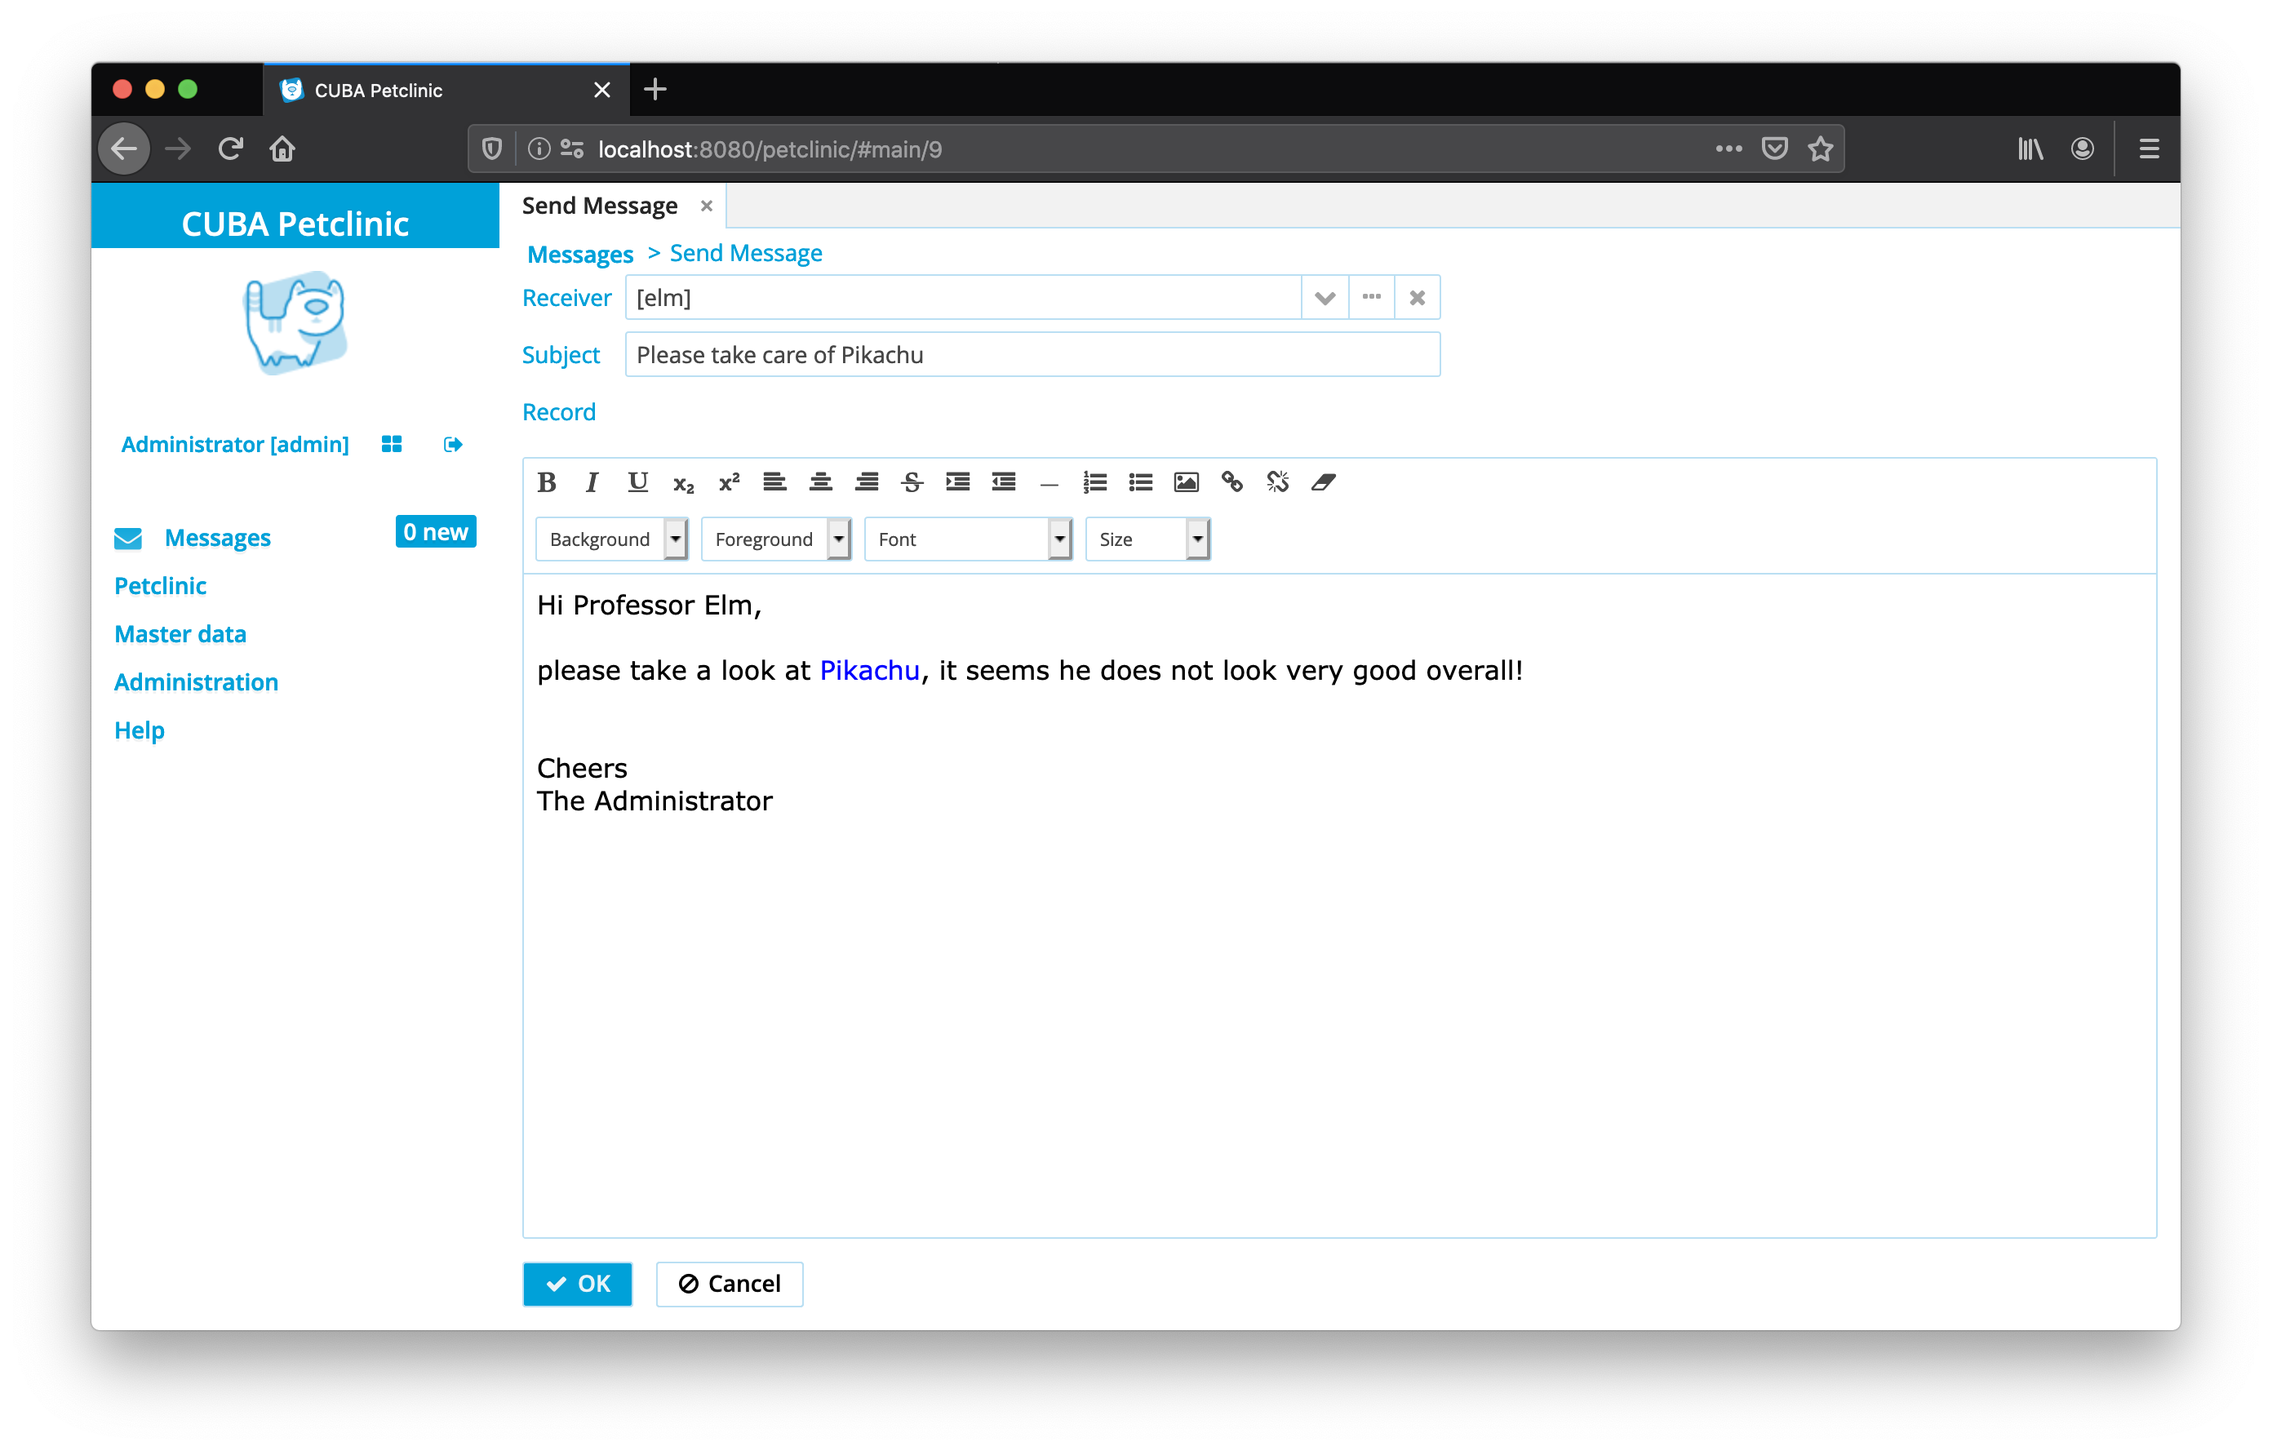
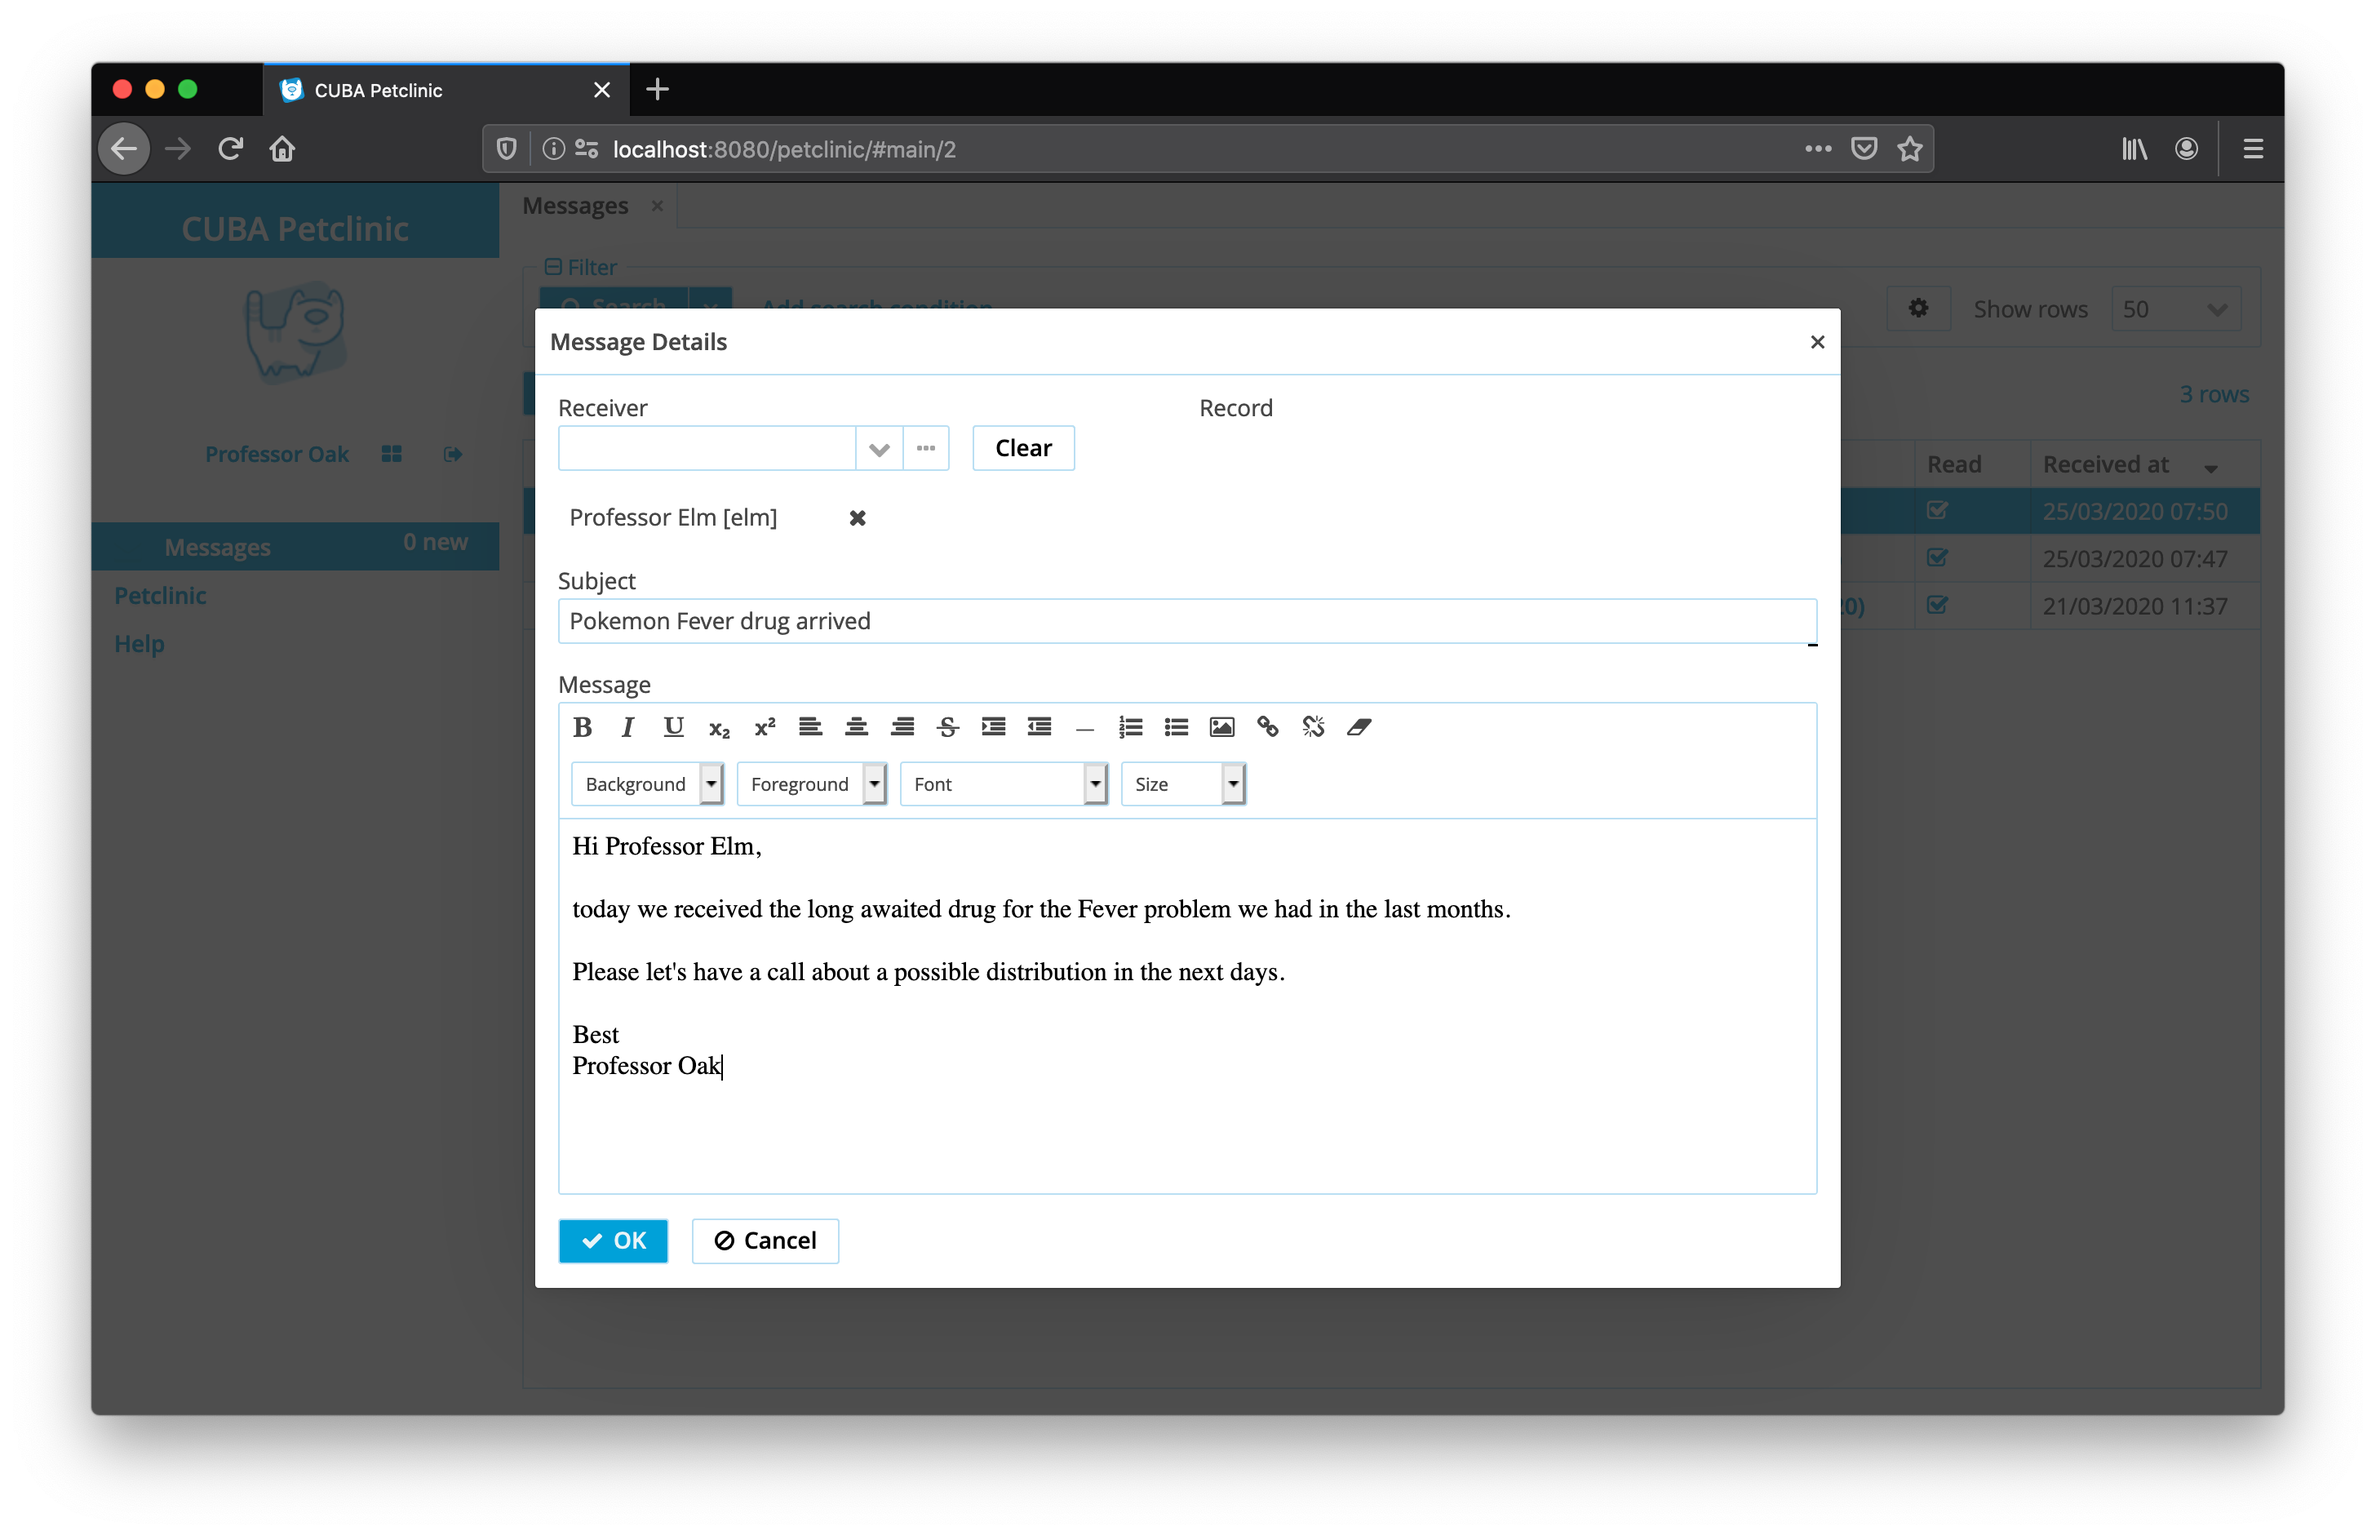
fix shareable support; updated screenshots

diff --git a/modules/web/src/de/diedavids/cuba/userinbox/web/WithEntitySharingSupport.java b/modules/web/src/de/diedavids/cuba/userinbox/web/WithEntitySharingSupport.java
@@ -11,6 +11,7 @@ import com.haulmont.cuba.gui.components.actions.ListAction;
 import com.haulmont.cuba.gui.screen.*;
 import de.balvi.cuba.declarativecontrollers.web.helper.ButtonsPanelHelper;
 import de.diedavids.cuba.userinbox.entity.Message;
+import de.diedavids.cuba.userinbox.entity.SendMessageEntity;
 
 import java.util.Collections;
 
@@ -23,7 +24,7 @@ public interface WithEntitySharingSupport {
     String SHARE_TEXT_KEY = "share.text";
     String SHARE_ACTION_ID = "shareAction";
     String SHARE_BTN_ID = "shareBtn";
-    String SHARE_NEW_MESSAGE_SCREEN_ID = "send-message";
+    String SHARE_NEW_MESSAGE_SCREEN_ID = "ddcui$send-message";
 
     /**
      * defines the table component that will be used as a basis for the tag functionality
@@ -72,7 +73,7 @@ public interface WithEntitySharingSupport {
                 .withPrimary(true)
                 .withIcon(ICON_KEY)
                 .withCaption(messages.getMainMessage(BUTTON_MSG_KEY))
-                .withHandler(e -> screens.editor(Message.class, screen)
+                .withHandler(e -> screens.editor(SendMessageEntity.class, screen)
                         .withScreenId(SHARE_NEW_MESSAGE_SCREEN_ID)
                         .withInitializer(message -> {
                             Entity shareable = getListComponent().getSingleSelected();
